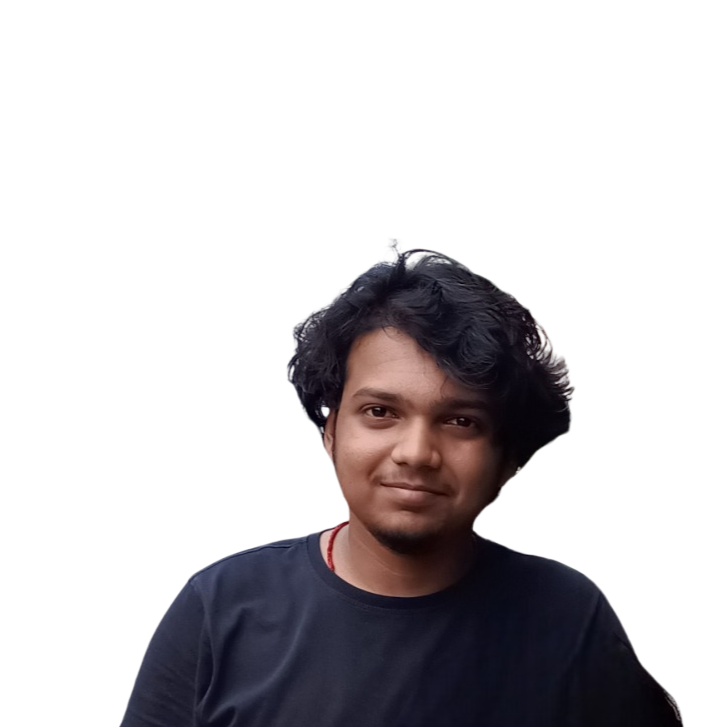
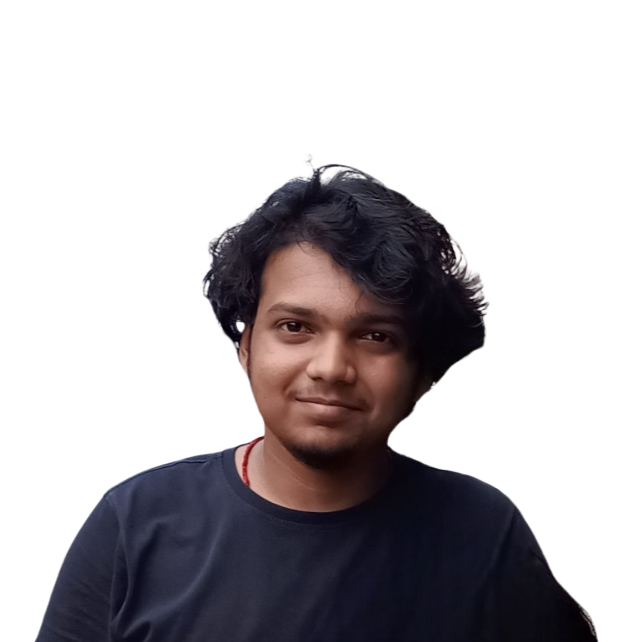
Few Changes

diff --git a/index.css b/index.css
@@ -1,10 +1,7 @@
 html, body{
     margin: 0;
     padding: 0;
-    /* background-color: rgb(28, 28, 28); */
-    background-image: url("/assets/images/magicpattern-87PP9Zd7MNo-unsplash.jpg");
-    background-size: cover;
-    background-repeat: no-repeat;
+    background-color: rgb(28, 28, 28);
     display: flex;
     width: 100%;
     flex-direction: column;
@@ -12,6 +9,7 @@ html, body{
 }
 
 #container1{
+    z-index: 10;
     display: flex;
     flex-direction: column;
 
@@ -104,6 +102,12 @@ html, body{
             align-items: center;
             justify-content: center;
             padding-bottom: 5px;
+            cursor: pointer;
+            transition: linear 0.07s;
+        }
+        .nav-but:hover{
+            scale: 1.1;
+            box-shadow: 0 0 5px #00000065;
         }
 
     }
@@ -112,29 +116,55 @@ html, body{
 
 #spacing1{
     width: 100%;
-    background-color:rgba(250, 235, 215, 0);
 }
 
+#section1{
+    margin-top: 0;
+    display: flex;
+    align-items: center;
+    justify-content: center;
+    width: 100%;
+    height: 93vh;
+    background-image: url("/assets/images/magicpattern-87PP9Zd7MNo-unsplash.jpg");
+    background-size:cover;
+    background-repeat: no-repeat;
 
-#container2{
+    #container2{
+    z-index: 1;
     height: 670px;
-    width: 90%;
+    width: 94%;
     max-width: 1100px;
     background-color:rgba(214, 189, 145, 0.679);
     box-shadow: 0 0 25px #000000c4;
     border-radius: 30px;
     display: flex;
+    justify-content: center;
     align-items: center;
+
+
 
     #left_box{
         width: 40%;
         height: 650px;
-        /* background-color: cadetblue; */
         background-image: url(/assets/images/pexels-zahide-tas-367420941-19920240.jpg);
-        background-size: cover;
+        background-size: 110%;
+        background-position: center;
         margin: 10px;
         border-radius: 20px;
+        transition-duration: 0.1s;
+        transition-timing-function: ease-out;
+        box-shadow: inset 0 0 50px 10px #000000;
     }
+    #left_box:hover{
+        background-size: 150%;
+        transition-duration: 0.4s;
+        transition-timing-function: ease-out;
+        box-shadow: inset 0 0 50px 10px #00000000;
+    }
+
+
+
+
     #division{
         height: 600px;
         background-color: black;
@@ -179,6 +209,7 @@ html, body{
             justify-content: center;
         }
         .accounts_1{
+            z-index: 2;
             display: flex;
             align-items: center;
             justify-content: center;
@@ -191,10 +222,20 @@ html, body{
             height: 30px;
             width: 120px;
             border-radius: 8px;
+            margin: 3px;
+            transition: linear 0.15s;
+            transition-timing-function: ease-out;
+        }
+        .accounts_1:hover{
+            transition: linear 0.2s;
+            transition-timing-function: ease-out;
+            scale: 1.1;
+            cursor: pointer;
         }
         #img_2{
-            background-image: url("/assets/images/1000105308-Photoroom-Photoroom.png-Photoroom.png");
-            background-size: cover;
+            background-image: url("/assets/images/1000105308-Photoroom.jpg");
+            background-position: center;
+            background-size: 150%;
             height: 250px;
             width: 250px;
             border-radius: 80px;
@@ -202,9 +243,18 @@ html, body{
             display: flex;
             align-items: center;
             justify-content: center;
-            border-width: 8px;
-            border-color: rgb(3, 70, 74);
-            border-style: solid;
+            outline-width: 5px;
+            outline-color: rgb(3, 70, 74);
+            outline-style: solid;
+            outline-offset: 5px;
+            animation: color-change 1s infinite;
+            transition: linear 0.2s;
+            transition-timing-function: ease-out;
+        }
+        #img_2:hover{
+            background-size: 170%;
+            transition: linear 0.2s;
+            transition-timing-function: ease-out;
         }
         #text_1{
             margin: 0;
@@ -212,14 +262,14 @@ html, body{
             font-weight: 100;
             margin-top: 10px;
             text-align: center;
-            font-size: 30px;
+            font-size: 40px;
         }
         #text_2{
             margin: 0;
             margin-top: 20px;
             margin-bottom: 10px;
             text-align: center;
-            font-size: 50px;
+            font-size: 58px;
             font-family: Nexa Rust;
 
             #text_2_small{
@@ -249,4 +299,16 @@ html, body{
             border-radius: 10px;
         }
     }
+}}
+
+@keyframes color-change {
+  0% { outline-color:rgb(1, 37, 39); }
+  50% { outline-color: rgb(3, 70, 74); }
+  100% { outline-color: rgb(1, 37, 39); }
+}
+
+
+#about_me_container{
+    width: 100%;
+    height: 50vh;
 }

diff --git a/index.html b/index.html
@@ -37,35 +37,40 @@
     <div id="spacing1"></div>
 
 
-    <div id="container2">
-        <div id="left_box"></div>
-        <div id="division"></div>
-        <div id="right_box">
-            <div id="spacing2" style="flex-grow: 1;"></div>
-            <div>
-                <h1 id="text_2">
-                    <div id="text_2_small">I am, </div>Shre<span style="color: #184644;;">y</span>as Ku<span style="color: #184644;">m</span>ar
-                </h1>
-            </div>
-            <div id="container_img" style="display: flex; align-items: center; justify-content:space-evenly; width: 100%;">
-                <div class="my_accounts_container_1">
-                    <h3 class="tag_1"">ANDROID DEVELOPER</h3>
-                    <div class="accounts_1"><h5 style="margin: 0px;">MY GITHUB</h5></div>
+    <div id="section1">
+        <div id="container2">
+            <div id="left_box"></div>
+            <div id="division"></div>
+            <div id="right_box">
+                <div id="spacing2" style="flex-grow: 1;"></div>
+                <div>
+                    <h1 id="text_2">
+                        <div id="text_2_small">I am, </div>Shre<span style="color: #184644;;">y</span>as Ku<span style="color: #184644;">m</span>ar
+                    </h1>
                 </div>
-                <div id="img_1">
-                    <div id="img_2"></div>
+                <div id="container_img" style="display: flex; align-items: center; justify-content:space-evenly; width: 100%;">
+                    <div class="my_accounts_container_1">
+                        <h3 class="tag_1"">ANDROID DEVELOPER</h3>
+                        <div class="accounts_1"><h5 style="margin: 0px;">MY GITHUB</h5></div>
+                    </div>
+                    <div id="img_1">
+                        <div id="img_2"></div>
+                    </div>
+                    <div class="my_accounts_container_1">
+                        <h3 class="tag_1">ANDROID DEVELOPER</h3>
+                        <div class="accounts_1"><h5 style="margin: 0px;">MY LINKEDIN</h5></div>
+                    </div>
                 </div>
-                <div class="my_accounts_container_1">
-                    <h3 class="tag_1"">ANDROID DEVELOPER</h3>
-                    <div class="accounts_1"><h5 style="margin: 0px;">MY LINKEDIN</h5></div>
+                <h3 id="text_1">I welcome you to my Portfolio!</h3>
+                <div id="para_container">
+                    <h4 id="para_1">Lorem ipsum dolor sit, amet consectetur adipisicing elit. Consectetur delectus autem non! Molestiae dolorum veritatis tempora atque quia, deserunt sapiente, mollitia suscipit ipsum at quod quisquam omnis commodi vel delectus.</h4>
                 </div>
+                <div id="spacing3" style="flex-grow: 1;"></div>
             </div>
-            <h3 id="text_1">I welcome you to my Portfolio!</h3>
-            <div id="para_container">
-                <h4 id="para_1">Lorem ipsum dolor sit, amet consectetur adipisicing elit. Consectetur delectus autem non! Molestiae dolorum veritatis tempora atque quia, deserunt sapiente, mollitia suscipit ipsum at quod quisquam omnis commodi vel delectus.</h4>
-            </div>
-            <div id="spacing3" style="flex-grow: 1;"></div>
-        </div>
+        </div></div>
+
+    <div id="about_me_container">
+
     </div>
 
     <script src="index.js"></script>

diff --git a/index.js b/index.js
@@ -1,11 +1,10 @@
 const spacing1 = document.getElementById("spacing1")
-// const left_box = document.getElementById("left_box")
 
 
 navbar.setAttribute("style", "height: "+(document.getElementById("navbar_inner").clientHeight+2)+"px;")
-spacing1.setAttribute("style", "height: "+(document.getElementById("navbar").clientHeight + 10)+"px;")
+spacing1.setAttribute("style", "height: "+(document.getElementById("navbar").clientHeight)+"px;")
 
 addEventListener("resize",() => {
     navbar.setAttribute("style", "height: "+(document.getElementById("navbar_inner").clientHeight+2)+"px;")
-    spacing1.setAttribute("style", "height: "+(navbar.clientHeight + 10)+"px;")
+    spacing1.setAttribute("style", "height: "+(navbar.clientHeight)+"px;")
 })
